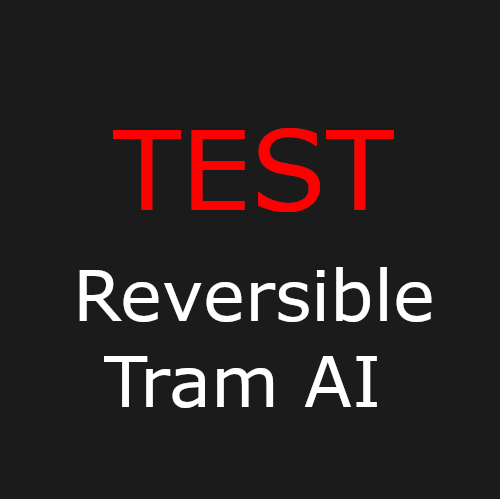
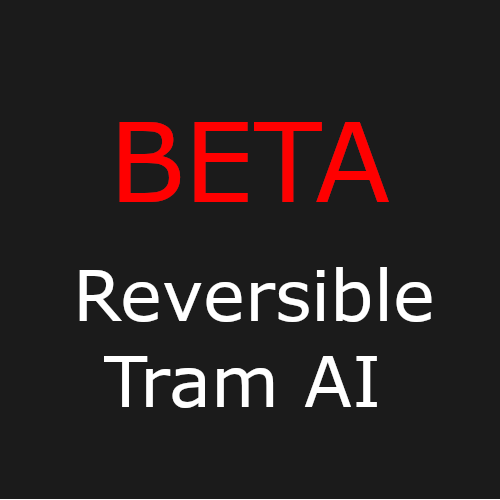
v0.3.2. Add beta preview image

Changed region(s): [[0.21, 0.24, 0.78, 0.45]]

diff --git a/ReversibleTramAI.cs b/ReversibleTramAI.cs
@@ -5,7 +5,7 @@ namespace ReversibleTramAI
 {
     public class Mod : IUserMod
     {
-        public const string version = "v0.3.1";
+        public const string version = "v0.3.2";
         public string Name => "Reversible Tram AI " + version;
         public string Description
         {

diff --git a/Properties/AssemblyInfo.cs b/Properties/AssemblyInfo.cs
@@ -29,5 +29,5 @@ using System.Runtime.InteropServices;
 //      Build Number
 //      Revision
 //
-[assembly: AssemblyVersion("0.3.1")]
+[assembly: AssemblyVersion("0.3.2")]
 //[assembly: AssemblyFileVersion("1.0")]
